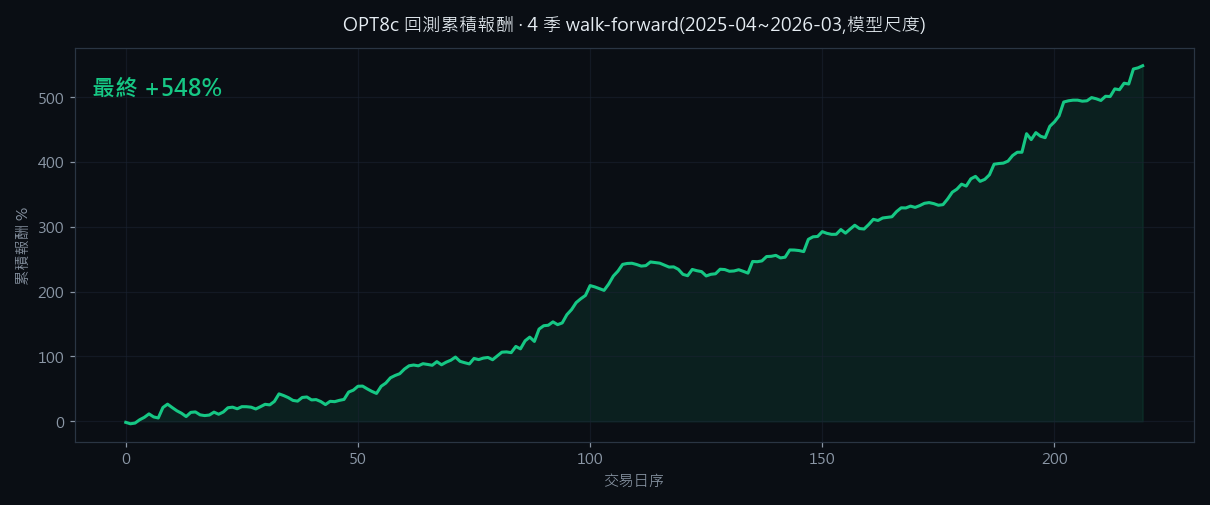
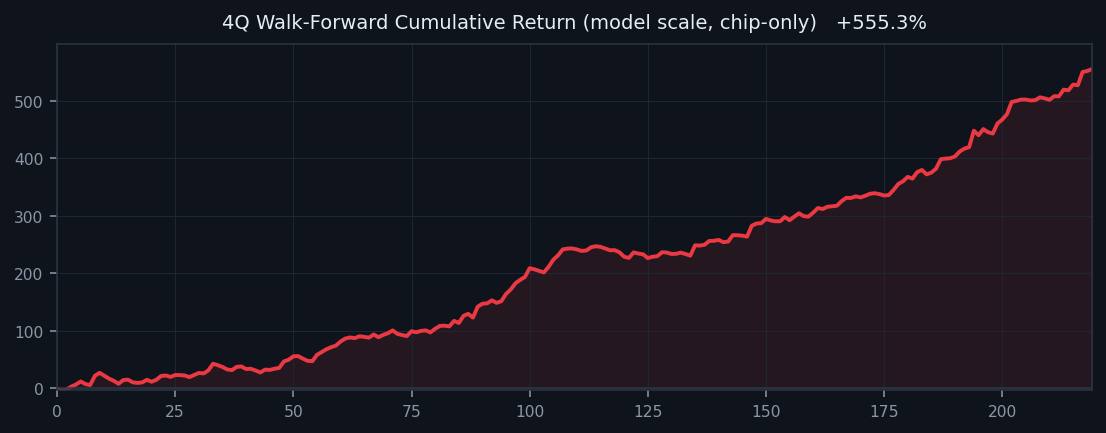
Website: chip-only 重算回測(+555%)+ 台股正報酬紅 + 回放從第0天 + 導覽列對齊 + 下載字深 + 盤中損益區塊

diff --git a/docs/assets/js/charts.js b/docs/assets/js/charts.js
@@ -52,8 +52,8 @@
       var area = d + ' L' + pts[pts.length - 1][0].toFixed(1) + ',' + y0.toFixed(1) + ' L' + pts[0][0].toFixed(1) + ',' + y0.toFixed(1) + ' Z';
       eqEl.innerHTML =
         '<svg viewBox="0 0 ' + W + ' ' + H + '" preserveAspectRatio="none" style="width:100%;height:240px;display:block">' +
-        '<path class="eqarea" d="' + area + '" fill="rgba(22,199,132,.10)" stroke="none" style="opacity:0"/>' +
-        '<path class="eqline" d="' + d + '" fill="none" stroke="#16c784" stroke-width="2" stroke-linejoin="round"/></svg>';
+        '<path class="eqarea" d="' + area + '" fill="rgba(234,57,67,.10)" stroke="none" style="opacity:0"/>' +
+        '<path class="eqline" d="' + d + '" fill="none" stroke="#ea3943" stroke-width="2" stroke-linejoin="round"/></svg>';
       var line = eqEl.querySelector('.eqline'), areaP = eqEl.querySelector('.eqarea');
       var len = line.getTotalLength();
       line.style.strokeDasharray = len; line.style.strokeDashoffset = len;
@@ -76,19 +76,26 @@
         grid: { vertLines: { color: 'rgba(42,53,67,.4)' }, horzLines: { color: 'rgba(42,53,67,.4)' } },
         rightPriceScale: { borderColor: '#2a3543' }, timeScale: { borderColor: '#2a3543' }, crosshair: { mode: 0 },
       });
-      var area = chart.addAreaSeries({ lineColor: '#16c784', topColor: 'rgba(22,199,132,.28)', bottomColor: 'rgba(22,199,132,0)', lineWidth: 2 });
+      var area = chart.addAreaSeries({ lineColor: '#ea3943', topColor: 'rgba(234,57,67,.28)', bottomColor: 'rgba(234,57,67,0)', lineWidth: 2 });
       var base = Date.UTC(2025, 3, 1) / 1000;
-      var full = pts.map(function(p, i){ return { time: base + i * 86400, value: p.c }; });
+      // 從第 0 天(損益 0)起播:加一個 day0 基準點(value 0),真實點往後移一天
+      var full = [{ time: base, value: 0 }].concat(pts.map(function(p, i){ return { time: base + (i + 1) * 86400, value: p.c }; }));
       var dateEl = document.getElementById('rpDate'), pnlEl = document.getElementById('rpPnl'), dayEl = document.getElementById('rpDay');
-      var idx = 0, timer = null, speed = 1;
+      var idx = 0, timer = null, speed = 1;   // idx=0 → 第 0 天,損益 0
       function render(){
-        area.setData(full.slice(0, Math.max(1, idx)));
-        var p = pts[Math.min(idx, pts.length) - 1] || pts[0];
-        var mm = parseInt(p.d.slice(0, 2), 10), yr = mm >= 4 ? 2025 : 2026;
-        dateEl.textContent = yr + '/' + p.d;
-        pnlEl.textContent = (p.c >= 0 ? '+' : '') + p.c.toLocaleString();
-        pnlEl.className = 'rv mono ' + (p.c >= 0 ? 'green' : 'red');
-        dayEl.textContent = Math.min(idx, pts.length) + ' / ' + pts.length;
+        area.setData(full.slice(0, idx + 1));
+        if (idx <= 0){
+          dateEl.textContent = '開盤前';
+          pnlEl.textContent = '+0'; pnlEl.className = 'rv mono'; pnlEl.style.color = 'var(--dim)';
+          dayEl.textContent = '0 / ' + pts.length;
+        } else {
+          var p = pts[Math.min(idx, pts.length) - 1];
+          var mm = parseInt(p.d.slice(0, 2), 10), yr = mm >= 4 ? 2025 : 2026;
+          dateEl.textContent = yr + '/' + p.d;
+          pnlEl.textContent = (p.c >= 0 ? '+' : '') + p.c.toLocaleString();
+          pnlEl.style.color = ''; pnlEl.className = 'rv mono ' + (p.c >= 0 ? 'red' : 'green');   // 台股:正報酬紅
+          dayEl.textContent = Math.min(idx, pts.length) + ' / ' + pts.length;
+        }
         chart.timeScale().fitContent();
       }
       function stop(){ if (timer){ clearInterval(timer); timer = null; } document.getElementById('rpPlay').textContent = '▶ 播放'; }
@@ -104,7 +111,7 @@
         document.querySelectorAll('.replay-ctrl [data-spd]').forEach(function(x){ x.classList.remove('on'); });
         b.classList.add('on'); speed = parseInt(b.getAttribute('data-spd'), 10);
       }); });
-      idx = 1; render();
+      idx = 0; render();   // 初始 = 第 0 天,損益 0(尚未播放)
       if (window.ResizeObserver) new ResizeObserver(function(){ chart.applyOptions({ width: rcEl.clientWidth, height: rcEl.clientHeight }); }).observe(rcEl);
     });
   }

diff --git a/docs/index.html b/docs/index.html
@@ -95,7 +95,7 @@
     <div class="shot">
       <div class="bar"><i class="r"></i><i class="y"></i><i class="g"></i><span>walk-forward · OOS</span></div>
       <div class="body"><div class="mockchart" data-seq="20,28,24,36,40,52,48,60,66,58,72,80,76,88,92"></div>
-        <div class="mrow" style="border:0"><span class="dim">4 季累積(模型尺度)</span><span class="green mono">+548%</span></div>
+        <div class="mrow" style="border:0"><span class="dim">4 季累積(模型尺度)</span><span class="red mono">+555%</span></div>
       </div>
     </div>
   </div>
@@ -125,6 +125,12 @@
         <div class="chart-toggle"><button data-sym="6770" class="on">6770 力積電</button><button data-sym="1802">1802 台玻</button></div>
         <div id="liveKchart"></div>
         <div class="chart-hint">即時 tick K 線 + 進出場標記 + 量能副圖 · 可拖曳 / 滾輪縮放</div>
+        <div class="pnl" style="border-top:1px solid var(--border);padding:10px 14px 6px">
+          <div class="tot"><span class="lab">今日已實現損益</span><span class="val red">+160,331</span></div>
+          <div class="row"><span class="sym">6770</span><span class="px">空 595.0 → 回補 532.4</span><span class="pl red">+102,688</span></div>
+          <div class="row"><span class="sym">1802</span><span class="px">空 48.6 → 回補 46.2</span><span class="pl red">+57,643</span></div>
+          <div class="note">示意 · 台股漲跌色(賺=紅 / 賠=綠)· 每檔約 200 萬</div>
+        </div>
       </div>
     </div>
   </div>
@@ -149,19 +155,19 @@
       <p>我們把「回測偏樂觀」的部分也誠實揭露(回測未套每日 5 檔上限、未含真實滑點),讓你看到的是可被獨立驗證的數字。</p>
       <ul>
         <li>一年 10 萬/檔回測:+356,977 元 / 875 筆</li>
-        <li>4 季 walk-forward 累積 +548%(模型尺度)</li>
+        <li>4 季 walk-forward 累積 +555%(模型尺度 · chip-only)</li>
         <li>盤中引擎 = 回測 = 模型,逐筆 100% 等價</li>
       </ul>
       <a class="btn btn-ghost" href="performance.html" style="margin-top:18px">查看完整績效與免責 →</a>
     </div>
     <div class="shot">
-      <div class="bar"><i class="r"></i><i class="y"></i><i class="g"></i><span>equity curve · 4Q walk-forward · +548%</span></div>
+      <div class="bar"><i class="r"></i><i class="y"></i><i class="g"></i><span>equity curve · 4Q walk-forward · +555%</span></div>
       <div class="body" style="padding:14px 14px 6px"><div id="equityChart"></div>
         <div class="chart-hint" style="padding:6px 0 0">4 季 walk-forward 累積報酬(模型尺度)· 捲動到此自動描繪</div>
       </div>
     </div>
   </div>
-  <div class="disclaimer reveal">⚠️ 上述為<b>回測(歷史模擬)結果,非實際交易績效</b>。「+548%」為各筆報酬率加總(非複利成長);回測採模型尺度、未含真實滑點與部分成交。<b>過去績效不代表未來表現,投資有風險。</b></div>
+  <div class="disclaimer reveal">⚠️ 上述為<b>回測(歷史模擬)結果,非實際交易績效</b>。「+555%」為各筆報酬率加總(非複利成長);回測採模型尺度、未含真實滑點與部分成交。<b>過去績效不代表未來表現,投資有風險。</b></div>
 </div></section>
 
 <!-- Backtest replay -->
@@ -176,7 +182,7 @@
     <div class="body" style="padding:14px">
       <div class="replay-stats">
         <div><span class="rl">日期</span><span id="rpDate" class="rv mono">—</span></div>
-        <div><span class="rl">累積損益(元)</span><span id="rpPnl" class="rv mono green">+0</span></div>
+        <div><span class="rl">累積損益(元)</span><span id="rpPnl" class="rv mono" style="color:var(--dim)">+0</span></div>
         <div><span class="rl">交易日</span><span id="rpDay" class="rv mono">0 / 220</span></div>
       </div>
       <div id="replayChart"></div>

diff --git a/docs/assets/css/style.css b/docs/assets/css/style.css
@@ -22,16 +22,18 @@ a{color:inherit;text-decoration:none}
 /* ── Nav ── */
 .nav{position:sticky;top:0;z-index:100;background:rgba(10,14,20,.82);
   backdrop-filter:blur(14px);border-bottom:1px solid var(--border)}
-.nav .wrap{display:flex;align-items:center;height:74px;gap:28px;padding-top:6px}
+.nav .wrap{display:flex;align-items:center;height:74px;gap:28px}
 .brand{font-weight:800;font-size:20px;letter-spacing:.5px;display:flex;align-items:center;gap:9px}
 .brand .dot{width:10px;height:10px;border-radius:50%;background:var(--accent);
   box-shadow:0 0 12px var(--accent)}
-.nav-links{display:flex;gap:22px;margin-left:auto;font-size:14px}
+.nav-links{display:flex;align-items:center;gap:22px;margin-left:auto;font-size:14px}
 .nav-links a{color:var(--dim);transition:color .2s}
 .nav-links a:hover{color:var(--bright)}
-.nav-cta{background:var(--accent);color:#ffffff;padding:9px 20px;border-radius:8px;font-size:15px;
+.nav-cta{background:var(--accent);color:#0a0e14;padding:9px 20px;border-radius:8px;font-size:15px;
   font-weight:800;letter-spacing:.5px;transition:background .2s;box-shadow:0 2px 10px rgba(59,130,246,.45)}
-.nav-cta:hover{background:#2563eb;color:#fff}
+.nav-links a.nav-cta{color:#0a0e14}
+.nav-cta:hover{background:#2563eb}
+.nav-links a.nav-cta:hover{color:#0a0e14}
 .nav-gh{display:inline-flex;align-items:center;color:var(--dim);transition:color .2s,transform .2s}
 .nav-gh:hover{color:var(--bright);transform:translateY(-1px)}
 .nav-toggle{display:none;margin-left:auto;background:none;border:0;color:var(--text);font-size:24px;cursor:pointer}

diff --git a/docs/performance.html b/docs/performance.html
@@ -51,7 +51,7 @@
   <table class="ptable reveal" style="margin-bottom:50px">
     <tr><th>指標</th><th>數值</th><th>備註</th></tr>
     <tr><td>期間</td><td class="mono">2025-04 ~ 2026-03</td><td>4 季 walk-forward,含 2026Q1 樣本外</td></tr>
-    <tr><td>累積報酬(模型尺度)</td><td class="mono green">+548.4%</td><td>各筆報酬率加總,非複利</td></tr>
+    <tr><td>累積報酬(模型尺度)</td><td class="mono red">+555.3%</td><td>各筆報酬率加總,非複利;chip-only 閘門</td></tr>
     <tr><td>交易數</td><td class="mono">524 筆 / 220 日</td><td>平均約 2.4 筆/日</td></tr>
     <tr><td>筆勝率</td><td class="mono">46.8%</td><td>低於 50%,但獲利金額 &gt; 虧損金額</td></tr>
     <tr><td>日勝率</td><td class="mono">60.9%</td><td></td></tr>